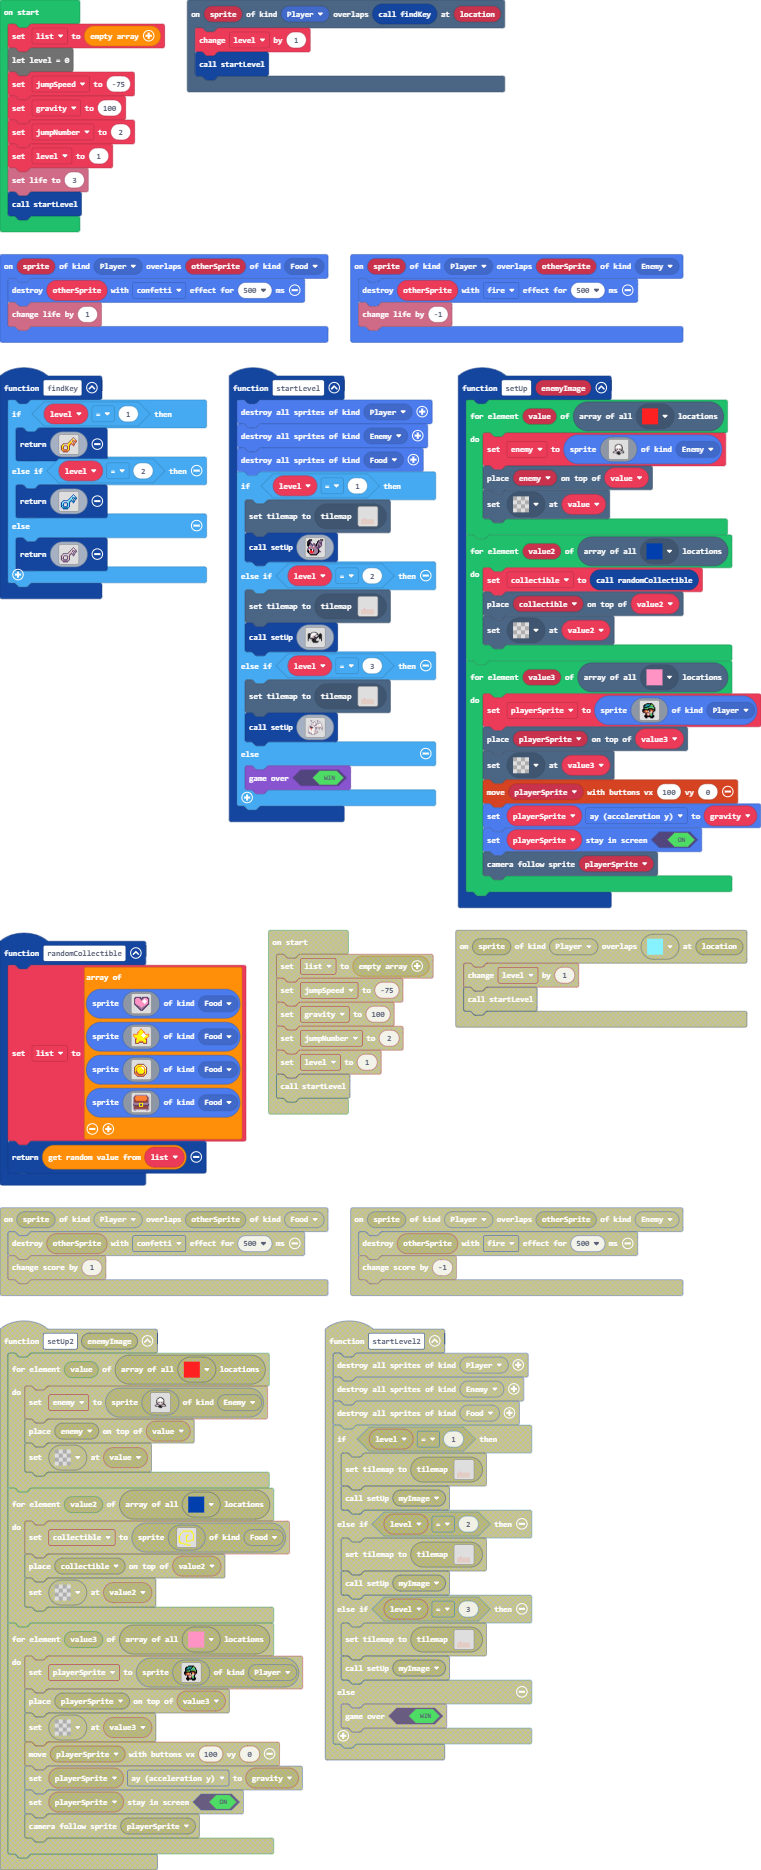
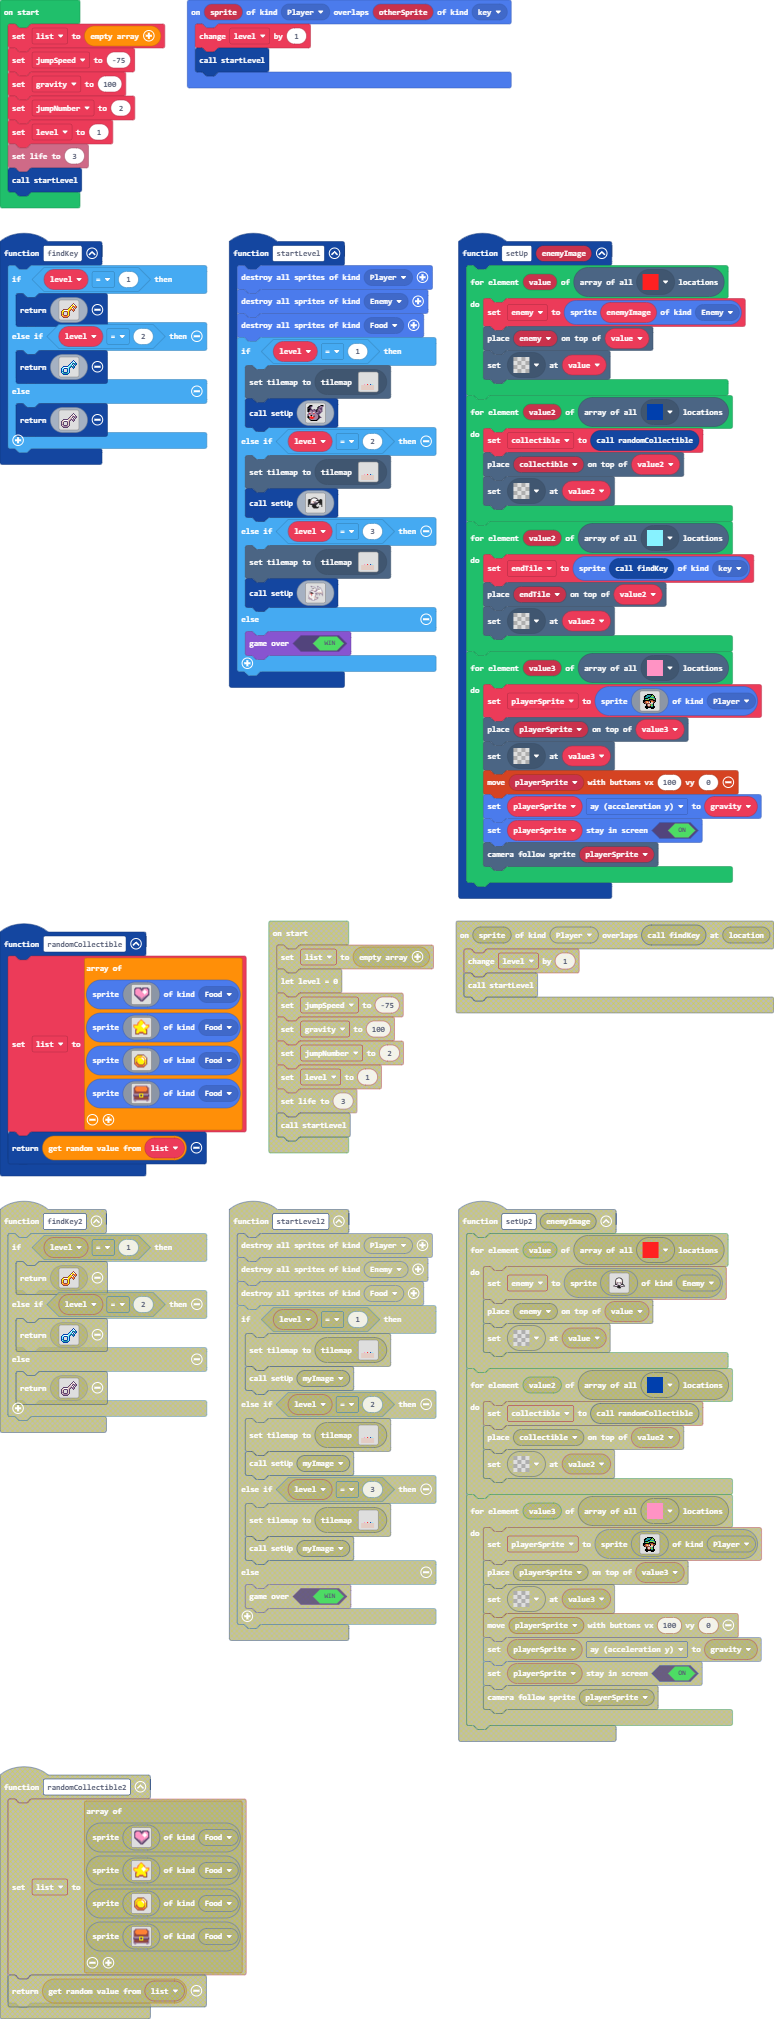
important changes to levels and keys

diff --git a/tilemap.g.ts b/tilemap.g.ts
@@ -15,25 +15,6 @@ namespace myTiles {
 
     helpers._registerFactory("tilemap", function(name: string) {
         switch(helpers.stringTrim(name)) {
-            case "level1":
-            case "level1":return tiles.createTilemap(hex`1000100000000000000000000000000000000000000000000000000000000000000000000000000000000000000000000000000000000000000000000000000000000000000000000000000000000000000000000000000000000000000000000000000000000000000000000000000000000000000000000000000000000000000000000000000000000000000000000000000000000000000000000000000000000000000000000200000000000000000000000001010101010101010101010101000000010101010101010101010101010000000101010101010101010101010100000001010101010101010101010101000000010101010101010101010101010000`, img`
-. . . . . . . . . . . . . . . . 
-. . . . . . . . . . . . . . . . 
-. . . . . . . . . . . . . . . . 
-. . . . . . . . . . . . . . . . 
-. . . . . . . . . . . . . . . . 
-. . . . . . . . . . . . . . . . 
-. . . . . . . . . . . . . . . . 
-. . . . . . . . . . . . . . . . 
-. . . . . . . . . . . . . . . . 
-. . . . . . . . . . . . . . . . 
-. . . . . . . . . . . . . . . . 
-. 2 2 2 2 2 2 2 2 2 2 2 2 2 . . 
-. 2 2 2 2 2 2 2 2 2 2 2 2 2 . . 
-. 2 2 2 2 2 2 2 2 2 2 2 2 2 . . 
-. 2 2 2 2 2 2 2 2 2 2 2 2 2 . . 
-. 2 2 2 2 2 2 2 2 2 2 2 2 2 . . 
-`, [myTiles.transparency16,sprites.castle.tilePath5,myTiles.tile1], TileScale.Sixteen);
             case "level2":
             case "level2":return tiles.createTilemap(hex`1000100000000000000000000000000000000000000000000000000000000000000000000000000000000000000000000000000000000000000000000000000000000000000000000000000000000000000000000000000000000000000000000000000000000000000000000000000000000000000000000000000000000000000000000000000000000000000000000000000000000000000000000000000000000000000000000000000000000000000000000000000000000000000000000000000000000000000000000000000000000000000000000000000000000000000000000000000000000000000000000000000000000000000000000000000000000000`, img`
 . . . . . . . . . . . . . . . . 
@@ -300,6 +281,25 @@ namespace myTiles {
 . . . . . . . . . . . . . . . . 
 . . . . . . . . . . . . . . . . 
 `, [myTiles.transparency16], TileScale.Sixteen);
+            case "level1":
+            case "level1":return tiles.createTilemap(hex`1000100000000000000000000000000000000000000000000000000000000000000000000000000000000000000000000000000000000000000000000000000000000000000000000000000000000000000000000000000000000000000000000000000000000000000000000000000000000000000000000000000000000000000000000000000000000000000000000000000000000000000000000000000000000000000000000200000300000400050000000001010101010101010101010101000000010101010101010101010101010000000101010101010101010101010100000001010101010101010101010101000000010101010101010101010101010000`, img`
+. . . . . . . . . . . . . . . . 
+. . . . . . . . . . . . . . . . 
+. . . . . . . . . . . . . . . . 
+. . . . . . . . . . . . . . . . 
+. . . . . . . . . . . . . . . . 
+. . . . . . . . . . . . . . . . 
+. . . . . . . . . . . . . . . . 
+. . . . . . . . . . . . . . . . 
+. . . . . . . . . . . . . . . . 
+. . . . . . . . . . . . . . . . 
+. . . . . . . . . . . . . . . . 
+. 2 2 2 2 2 2 2 2 2 2 2 2 2 . . 
+. 2 2 2 2 2 2 2 2 2 2 2 2 2 . . 
+. 2 2 2 2 2 2 2 2 2 2 2 2 2 . . 
+. 2 2 2 2 2 2 2 2 2 2 2 2 2 . . 
+. 2 2 2 2 2 2 2 2 2 2 2 2 2 . . 
+`, [myTiles.transparency16,sprites.castle.tilePath5,myTiles.tile1,myTiles.tile2,myTiles.tile4,myTiles.tile3], TileScale.Sixteen);
         }
         return null;
     })

diff --git a/main.ts b/main.ts
@@ -1,3 +1,6 @@
+namespace SpriteKind {
+    export const key = SpriteKind.create()
+}
 function randomCollectible () {
     list = [
     sprites.create(assets.image`getlife`, SpriteKind.Food),
@@ -7,19 +10,20 @@ function randomCollectible () {
     ]
     return list._pickRandom()
 }
-scene.onOverlapTile(SpriteKind.Player, findKey(), function (sprite, location) {
-    level += 1
-    startLevel()
-})
 function setUp (enemyImage: Image) {
     for (let value of tiles.getTilesByType(assets.tile`enemyTile`)) {
-        enemy = sprites.create(assets.image`enemy`, SpriteKind.Enemy)
+        enemy = sprites.create(enemyImage, SpriteKind.Enemy)
         tiles.placeOnTile(enemy, value)
         tiles.setTileAt(value, assets.tile`transparency16`)
     }
     for (let value2 of tiles.getTilesByType(assets.tile`myTile0`)) {
         collectible = randomCollectible()
         tiles.placeOnTile(collectible, value2)
+        tiles.setTileAt(value2, assets.tile`transparency16`)
+    }
+    for (let value2 of tiles.getTilesByType(assets.tile`levelTile`)) {
+        endTile = sprites.create(findKey(), SpriteKind.key)
+        tiles.placeOnTile(endTile, value2)
         tiles.setTileAt(value2, assets.tile`transparency16`)
     }
     for (let value3 of tiles.getTilesByType(assets.tile`playerTile`)) {
@@ -51,6 +55,10 @@ sprites.onOverlap(SpriteKind.Player, SpriteKind.Food, function (sprite, otherSpr
     sprites.destroy(otherSprite, effects.confetti, 500)
     info.changeLifeBy(1)
 })
+sprites.onOverlap(SpriteKind.Player, SpriteKind.key, function (sprite, otherSprite) {
+    level += 1
+    startLevel()
+})
 function startLevel () {
     sprites.destroyAllSpritesOfKind(SpriteKind.Player)
     sprites.destroyAllSpritesOfKind(SpriteKind.Enemy)
@@ -74,14 +82,15 @@ sprites.onOverlap(SpriteKind.Player, SpriteKind.Enemy, function (sprite, otherSp
 })
 let currentjumps = 0
 let playerSprite: Sprite = null
+let endTile: Sprite = null
 let collectible: Sprite = null
 let enemy: Sprite = null
+let level = 0
 let jumpNumber = 0
 let gravity = 0
 let jumpSpeed = 0
 let list: Sprite[] = []
 list = []
-let level = 0
 jumpSpeed = -75
 gravity = 100
 jumpNumber = 2
